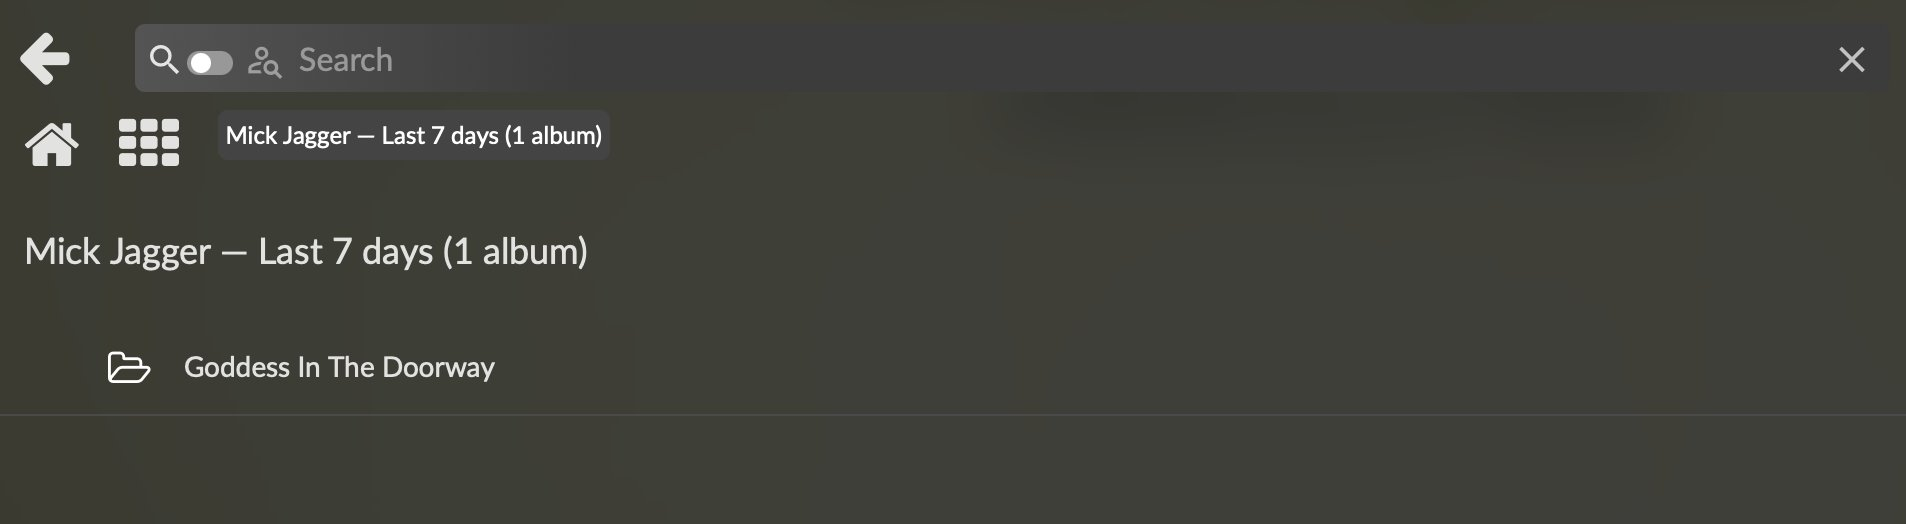
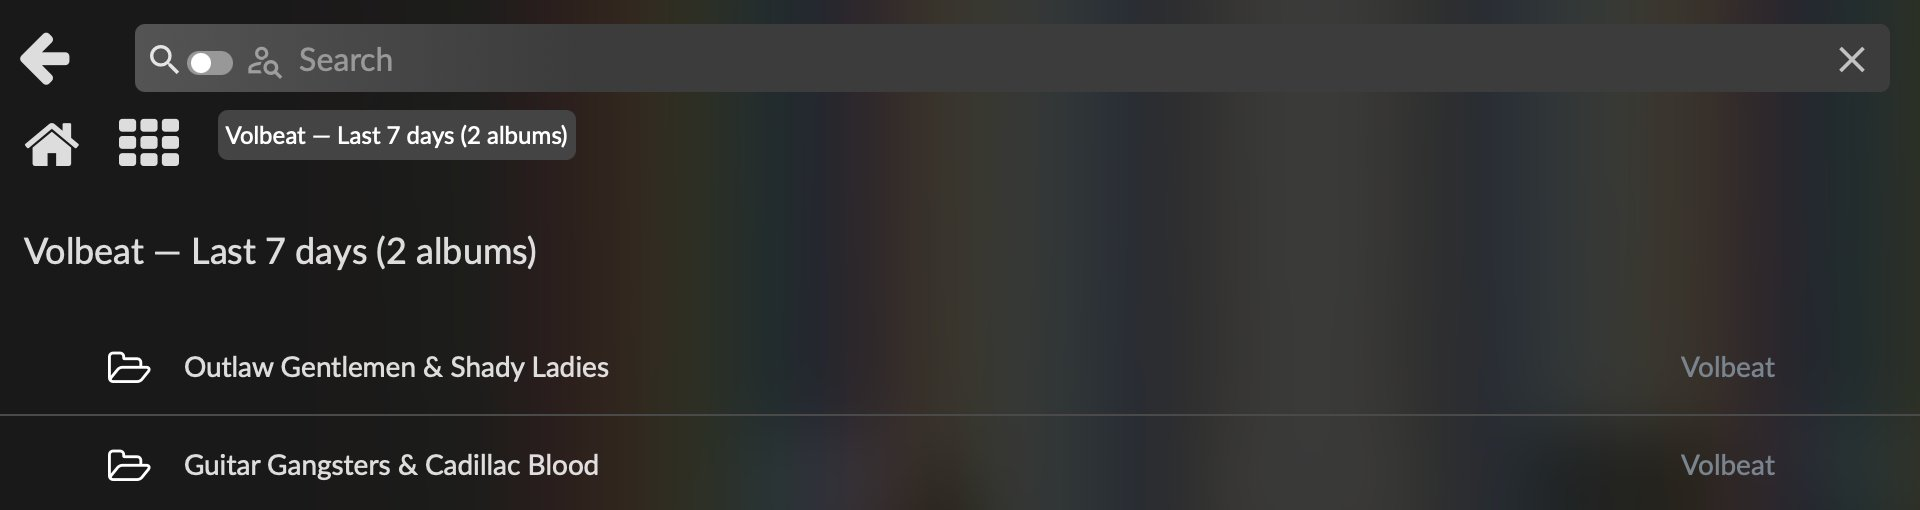
Add files via upload

diff --git a/lib/grouping.js b/lib/grouping.js
@@ -7,10 +7,11 @@
  * up the controller.  Nothing in here touches `this`, the filesystem,
  * or any Volumio API — given the same input, output is deterministic.
  *
- * Three functions:
- *   - artistOf(entry)         → string (AlbumArtist / Artist / "Unknown Artist")
- *   - albumTitleOf(entry, fallback) → string (Album tag, with fallback)
- *   - groupByAlbum(entries)   → array of album buckets, sorted by recency
+ * Four functions:
+ *   - artistOf(entry)              → string (AlbumArtist / Artist / "Unknown Artist")
+ *   - albumTitleOf(entries, fb)    → string (Album tag, with fallback)
+ *   - albumArtistOf(entries)       → string | null (album-level artist label)
+ *   - groupByAlbum(entries)        → array of album buckets, sorted by recency
  */
 
 /**
@@ -60,6 +61,93 @@ function albumTitleOf(entries, fallback) {
 }
 
 /**
+ * Determine the artist label to display for an album as a whole.
+ * Distinct from artistOf(): that's per-track and used for grouping
+ * buckets in the Artists section; this is per-album and used as the
+ * secondary column on album rows.
+ *
+ * Returns one of:
+ *   - a real artist name (string)
+ *   - the literal sentinel 'Various Artists' (caller should localize)
+ *   - null when no meaningful artist information is present
+ *
+ * Algorithm:
+ *   1. Collect AlbumArtist values across the album's tracks, treating
+ *      empty/whitespace/literal '*' as "no value" (some tagging tools
+ *      emit '*' for compilations with no AlbumArtist set).
+ *   2. If a single AlbumArtist value dominates (>= half the tracks):
+ *      - If it normalizes to a "various artists"-style label
+ *        ("Various Artists" / "Various" / "VA", case-insensitive),
+ *        return the canonical sentinel for caller-side localization.
+ *      - Otherwise return the value as-is.
+ *   3. Else inspect per-track Artist values:
+ *      - Multiple distinct → 'Various Artists' sentinel.
+ *      - Exactly one → return it.
+ *      - None → null.
+ */
+function albumArtistOf(entries) {
+  if (!entries || entries.length === 0) return null;
+
+  function meaningful(v) {
+    if (typeof v !== 'string') return false;
+    var s = v.trim();
+    if (!s) return false;
+    if (s === '*') return false;
+    return true;
+  }
+
+  function isVariousLike(v) {
+    if (!meaningful(v)) return false;
+    var s = v.trim().toLowerCase();
+    return s === 'various artists' || s === 'various' || s === 'va';
+  }
+
+  // Step 1: find dominant meaningful AlbumArtist
+  var aaCounts = {};
+  var aaTotal = 0;
+  for (var i = 0; i < entries.length; i++) {
+    var aa = entries[i].AlbumArtist;
+    if (meaningful(aa)) {
+      aaCounts[aa] = (aaCounts[aa] || 0) + 1;
+      aaTotal++;
+    }
+  }
+
+  if (aaTotal > 0) {
+    var topAA = null;
+    var topCount = 0;
+    var keys = Object.keys(aaCounts);
+    for (var k = 0; k < keys.length; k++) {
+      if (aaCounts[keys[k]] > topCount) {
+        topAA = keys[k];
+        topCount = aaCounts[keys[k]];
+      }
+    }
+    if (topCount >= entries.length / 2) {
+      if (isVariousLike(topAA)) return 'Various Artists';
+      return topAA;
+    }
+  }
+
+  // Step 2: AlbumArtist absent or unclear — examine per-track Artist
+  var artistSet = {};
+  var distinctCount = 0;
+  for (var j = 0; j < entries.length; j++) {
+    var a = entries[j].Artist;
+    if (meaningful(a)) {
+      if (!artistSet[a]) {
+        artistSet[a] = true;
+        distinctCount++;
+      }
+    }
+  }
+
+  if (distinctCount > 1) return 'Various Artists';
+  if (distinctCount === 1) return Object.keys(artistSet)[0];
+  return null;
+}
+
+/**
  * Group `find` entries by parent directory.  Returns array sorted by
  * most-recent modification descending.  Each bucket carries the entries
  * themselves so the caller can derive an Album-tag title.
@@ -98,5 +186,6 @@ function groupByAlbum(entries) {
 module.exports = {
   artistOf: artistOf,
   albumTitleOf: albumTitleOf,
+  albumArtistOf: albumArtistOf,
   groupByAlbum: groupByAlbum
 };

diff --git a/index.js b/index.js
@@ -779,12 +779,26 @@ ControllerRecentlyAdded.prototype._artistsSection = function (days, entries) {
  *
  * Title prefers the Album tag (M4) and falls back to the folder name
  * when no track in the bucket has an Album tag.
+ *
+ * The `artist` field becomes the dimmer secondary column on the row in
+ * Volumio's list view (matching the stock Albums view).  We resolve it
+ * via grouping.albumArtistOf().  The 'Various Artists' sentinel is
+ * displayed verbatim — Volumio's stock Albums view does the same, and
+ * "Various Artists" is a quasi-proper-noun in music tagging conventions
+ * (iTunes, MusicBrainz, etc.) that's typically left untranslated even
+ * in non-English UIs.  Localizing it would create cross-tile
+ * inconsistency without meaningful benefit.
+ *
+ * Omitted entirely when no meaningful artist info is present, so rows
+ * for genuinely-untagged albums don't carry a stray empty column.
  */
 ControllerRecentlyAdded.prototype._albumItem = function (album) {
   var folderName = album.path.split('/').pop();
-  var title = grouping.albumTitleOf(album.entries || [], folderName);
+  var entries = album.entries || [];
+  var title = grouping.albumTitleOf(entries, folderName);
+  var artist = grouping.albumArtistOf(entries);  // string or null
 
-  return {
+  var item = {
     service: 'mpd',
     type: 'folder',
     title: title,
@@ -795,6 +809,8 @@ ControllerRecentlyAdded.prototype._albumItem = function (album) {
               encodeURIComponent(this._mpdRelativeToAbsolute(album.path)) +
               '&icon=folder-o&metadata=false'
   };
+  if (artist) item.artist = artist;
+  return item;
 };
 
 /**

diff --git a/README.md b/README.md
@@ -1,4 +1,4 @@
-# Recently Added Plugin for Volumio – v0.4.1
+# Recently Added Plugin for Volumio – v0.4.2
 
 > **⚠️ Disclaimer**
 >
@@ -34,6 +34,10 @@ Adds a "Recently Added" entry to Volumio's Browse menu showing albums and artist
 
 ![Both sections](docs/images/sections.png)
 
+**Album drill-down**
+
+![Album drill-down](docs/images/tracks.png)
+
 **Artist drill-down**
 
 ![Artist drill-down](docs/images/artist.png)
@@ -41,6 +45,12 @@ Adds a "Recently Added" entry to Volumio's Browse menu showing albums and artist
 ---
 
 ## Changelog
+
+### v0.4.2
+
+**New feature:**
+
+1. **Album rows show the artist as a secondary column.**  Each album in the Recently Added list now displays the artist beside the album title — matching Volumio's stock Albums view.  The artist is resolved per-album using a new `albumArtistOf` helper: prefers a dominant `AlbumArtist` tag, falls back to per-track `Artist`, and intelligently detects compilations.  Albums tagged as compilations (whether the `AlbumArtist` is literally "Various Artists" / "VA" / "Various", or just `*`, or missing entirely while per-track Artist values vary) are all normalized to the literal label *Various Artists* — matching Volumio's stock convention, which leaves this term in English regardless of UI language (it's a quasi-proper-noun in music tagging conventions like iTunes and MusicBrainz).  Genuinely untagged albums omit the secondary column rather than carrying a stray empty value.
 
 ### v0.4.1
 
@@ -139,11 +149,11 @@ ssh [email redacted]
 mkdir -p /data/plugins/music_service/recently_added
 
 # 3. Transfer the tarball (run this on your PC, not the Pi)
-scp recently_added-v0.4.1.tar [email redacted]:/tmp/
+scp recently_added-v0.4.2.tar [email redacted]:/tmp/
 
 # 4. Extract on the Pi
 cd /data/plugins/music_service
-tar xf /tmp/recently_added-v0.4.1.tar
+tar xf /tmp/recently_added-v0.4.2.tar
 
 # 5. Run the installer
 cd /data/plugins/music_service/recently_added